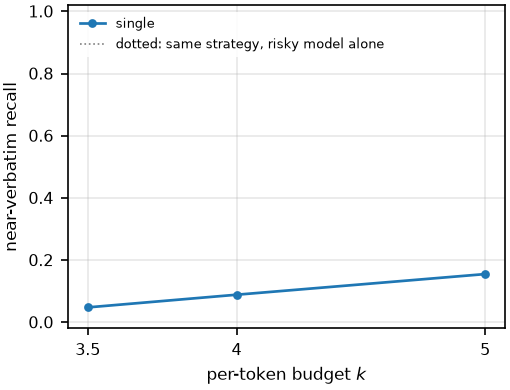
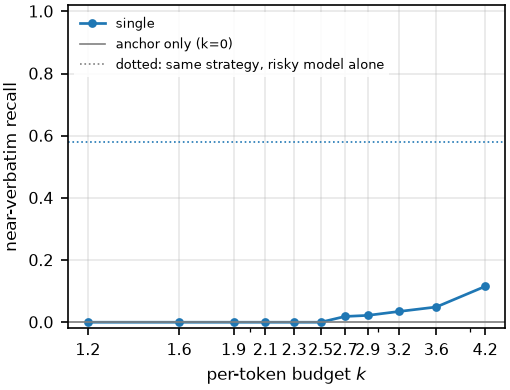
feat-082: the onset reproduces on a corpus the law has never seen
The plan's own risk list, and the paper's first limitation, is that everything runs on sixteen
English genre novels. feat-080 answered that for the order results; this answers it for the ONSET,
which is the positive contribution.

Three anchors with a Gutenberg memoriser, swept on the same 12-point grid with both baselines, on
600 excerpts of 50 public-domain books. Predictions, bands, grid and entry gate all committed at
76880b9 before any of them decoded a token, and narrowed twice more (4f3c601, 59e7ab0) while the
runs were in flight and nothing was scored.

Band 2, the one that matters: the onset section's central split REPRODUCES. KL3M-520M is again the
only pair above 1 and its interval again excludes 1 ([1.07, 1.42] against [1.02, 1.24]); the two
coarse pairs are again below; every ratio lands within 0.05 of its twin, with only the protected
work changed. 'Leakage begins after the certificate has gone vacuous' is a property of the pair.

Band 1: the LEVEL of Eq.(eq:req) transfers -- pred/meas 0.851/0.980/1.040 inside the committed
[0.85, 1.15], no worse than the same three pairs on the corpus it came from. The addendum written
before the numbers says what that does not license, and it holds to it: the direction stays refuted
(exact p = 1.000 at n=3, the floor), and P2 missed on all three -- the onset lands above the median
of r(x), where on the novels it sat at q25.

Every k=-1 gate passes, every k=0 arm reproduces 0.000, zero per-trajectory violations over 33
[…]

diff --git a/progress.md b/progress.md
@@ -2905,3 +2905,55 @@ raw number is not measured on the same window as the two rescalings and is not a
 
 **218 tests. 1410 numeric literals, one expected miss (`64256`). 9 of 9 pages, 31 total, 0 overfull,
 0 `??`.**
+
+### feat-082 (2026-09-11): the onset on a corpus the law has never seen
+
+```
+.venv/bin/python analysis/build_gutenberg_excerpts.py --out data/gutenberg --results results
+CUDA_DEVICE_ORDER=PCI_BUS_ID CUDA_VISIBLE_DEVICES=2 HF_HUB_OFFLINE=1 HF_HUB_CACHE=$PWD/hf_cache \
+  .venv/bin/python analysis/onset_theory.py --corpus-file data/gutenberg/excerpts.jsonl \
+    --pairs-file results/onset_theory_pairs_gutenberg.tsv --limit 100 --tag _gutenberg --out results
+# ^ the predictions, committed at 76880b9 BEFORE any decoding, with the bands and the k-grid
+ENV .venv/bin/python analysis/composition_attack.py --safe-model <anchor> --risky-model <memg> \
+  --corpus-file data/gutenberg/excerpts.jsonl \
+  --k-values -1 0 1.2 1.6 1.9 2.1 2.3 2.5 2.7 2.9 3.2 3.6 4.2 --modes single --limit 100 \
+  --out output/phase5/fineg_<pair>                 # logs gut_onset_{kl3m,pleias_phi}.log
+.venv/bin/python analysis/onset_gutenberg.py --out results
+.venv/bin/python analysis/onset_ci.py --comp output/phase5/fineg_<pair>/composition.csv \
+  --s-x <s_s> --label "<pair> (Gutenberg)" --out results
+```
+
+```
+pair            k=-1   onset   bracket     ratio  95% CI        no-x   Eq.(req)  pred/meas   on the novels
+KL3M-520M      0.578   2.608  (2.5,2.7]   1.102  [1.07,1.42]   0.0%    2.218      0.851      1.053 [1.02,1.24]
+Pleias-1.2B    0.517   2.513  (2.5,2.7]   0.895  [0.85,1.17]   0.0%    2.463      0.980      0.878 [0.79,0.96]
+Phi-3.5-mini   0.270   2.704  (2.7,2.9]   0.949  [0.79,1.33]   0.5%    2.813      1.040      0.926 [0.80,1.09]
+```
+
+**Band 2 fires and it is the one that matters: the onset section's central split reproduces on a
+disjoint corpus.** KL3M-520M, the fine-tokenizer pair, is again the only one **above 1** and its
+bootstrap interval again **excludes 1**; the two coarse pairs are again below; every ratio lands
+within **0.05** of its CopyBench twin, with the anchor, architecture, settings, seed and grid fixed
+and only the protected work changed. Leakage beginning after the certificate has gone vacuous is a
+property of the pair, not of sixteen novels.
+
+**Band 1 fires too: the LEVEL of Eq.(eq:req) transfers.** pred/meas 0.851/0.980/1.040, all inside
+the committed [0.85, 1.15] and no worse than the 0.865/1.009/1.076 the same three manage on the
+corpus it was derived on. Per the addendum committed before the numbers landed, that is all it
+licenses: the equation stays refuted as a *direction* (the seven-pair CopyBench rank correlation is
+-0.18; the three-pair test here returns exact p = 1.000, the floor at n = 3), and **P2 missed on all
+three** -- the onset lands *above* the median of r(x) where on the novels it sat at q25.
+
+Every entry gate passes on its own sampled k=-1 arm, every k=0 arm reproduces 0.000, zero
+per-trajectory violations across all 33 budgeted cells. Limits, stated in the pre-registration
+before the runs and in the paper after: three anchors are not seven; the second corpus is
+public-domain prose, not a different kind of work; the committed grid resolves the crossing only to
+0.2 nats (about 7% of s(x)), so each onset is bracketed rather than located; and Phi-3.5-mini's
+second memoriser is the weakest of the three, with the widest interval and the only nonzero
+no-crossing fraction.
+
+**Manuscript.** Section 4 gains one clause ("Nor the corpus...") paid for by three compressions
+elsewhere, Appendix C gains the full table and its caveats, Limitations no longer says every onset
+number rests on the sixteen novels, and the abstract gains "Re-run on a second protected corpus, the
+ratios move by at most 0.05" paid for by trimming two sentences. Main text still **exactly 9 of 9
+pages**; 32 total, 0 overfull, 0 `??`, 1474 literals with one expected miss. **218 tests.**

diff --git a/results/onset_prediction_gutenberg.md b/results/onset_prediction_gutenberg.md
@@ -169,3 +169,57 @@ fail, and failing is what it is for. No further anchors are planned: the other f
 would add corroboration on the side already represented twice, and the second fine anchor
 (KL3M-1.7B) is the weakest memoriser in the set, whose Gutenberg twin would confound memorisation
 with the corpus.
+
+## Scored: both bands fire, and the second one is the one that matters
+
+```
+.venv/bin/python analysis/onset_gutenberg.py --out results
+.venv/bin/python analysis/onset_ci.py --comp output/phase5/fineg_<pair>/composition.csv \
+  --s-x <s_s> --label "<pair> (Gutenberg)" --out results
+```
+
+Every pair passes the entry gate on its own sampled $k=-1$ arm ($0.578$, $0.517$, $0.270$) and
+every $k=0$ arm reproduces $0.000$, so the anchor alone leaks nothing on either corpus. Zero
+per-trajectory violations across all $33$ budgeted cells.
+
+```
+pair            k=-1   onset   bracket     ratio  95% CI          no-x   pred   pred/meas   CopyBench ratio
+KL3M-520M      0.578   2.608  (2.5, 2.7]   1.102  [1.07, 1.42]   0.0%   2.218    0.851      1.053  [1.02, 1.24]
+Pleias-1.2B    0.517   2.513  (2.5, 2.7]   0.895  [0.85, 1.17]   0.0%   2.463    0.980      0.878  [0.79, 0.96]
+Phi-3.5-mini   0.270   2.704  (2.7, 2.9]   0.949  [0.79, 1.33]   0.5%   2.813    1.040      0.926  [0.80, 1.09]
+```
+
+### Band 1 (the level of Eq.~\eqref{eq:req}): **transfers**
+
+$0.851$, $0.980$, $1.040$ --- all three inside the committed $[0.85, 1.15]$, and no worse than the
+same three pairs on the corpus the equation was developed on ($0.865$, $1.009$, $1.076$). The level
+agreement is a property of the geometry and not of sixteen novels.
+
+Per the addendum, that is the whole of what it licenses. The equation stays refuted as a
+*predictor*: the direction test on three pairs gives $\rho = +0.50$ at exact $p = 1.000$ --- no
+information, as the addendum said it could not be --- and the seven-pair CopyBench inversion at
+$\rho = -0.18$ stands. **P2 fails on all three**: the measured onset lands *above* the median of
+$r(x)$ on every pair ($2.608$ against $2.208$; $2.513$ against $2.480$; $2.704$ against $2.689$),
+where on CopyBench it sat at $q_{25}$. P2 was committed and it missed; it is reported as missed.
+
+### Band 2 (the onset section's central split): **reproduces**
+
+This is the one worth having. KL3M-520M, the fine-tokenizer pair, is again the only one **above
+$1$**, and its bootstrap interval again **excludes $1$** ($[1.07, 1.42]$ against CopyBench's
+$[1.02, 1.24]$). The two coarse pairs are again below. Every ratio lands within $0.05$ of its
+CopyBench twin --- $1.053 \to 1.102$, $0.878 \to 0.895$, $0.926 \to 0.949$ --- with the anchor, the
+architecture, the settings, the seed and the grid held fixed and only the protected work changed,
+from sixteen copyrighted novels to $600$ excerpts of $50$ public-domain books. **Leakage beginning
+after the certificate has gone vacuous is a property of the pair, not of those novels.**
+
+### What this does not establish, stated at the same volume
+
+Two anchors on the coarse side and one on the fine side is not seven pairs. The committed grid has
+a $0.2$-nat resolution around the crossing --- about $7\%$ of $s(x)$, coarser than the CopyBench
+grids, whose finest spacing is $0.1$ --- so each onset is bracketed, not resolved, and the
+brackets are what the table quotes. Phi-3.5-mini's Gutenberg memoriser is the weakest of the three
+($k=-1$ recall $0.270$ against $0.517$ and $0.578$) and its curve is not monotone at the top of the
+grid ($0.020$ at $k=2.9$, $0.015$ at $3.2$), so its interval is the widest here and the $0.5\%$
+no-crossing is the only nonzero one. Nothing further is planned: the bands were written to be
+failed, they were not, and running more anchors now would be choosing when to stop after seeing the
+answer.
